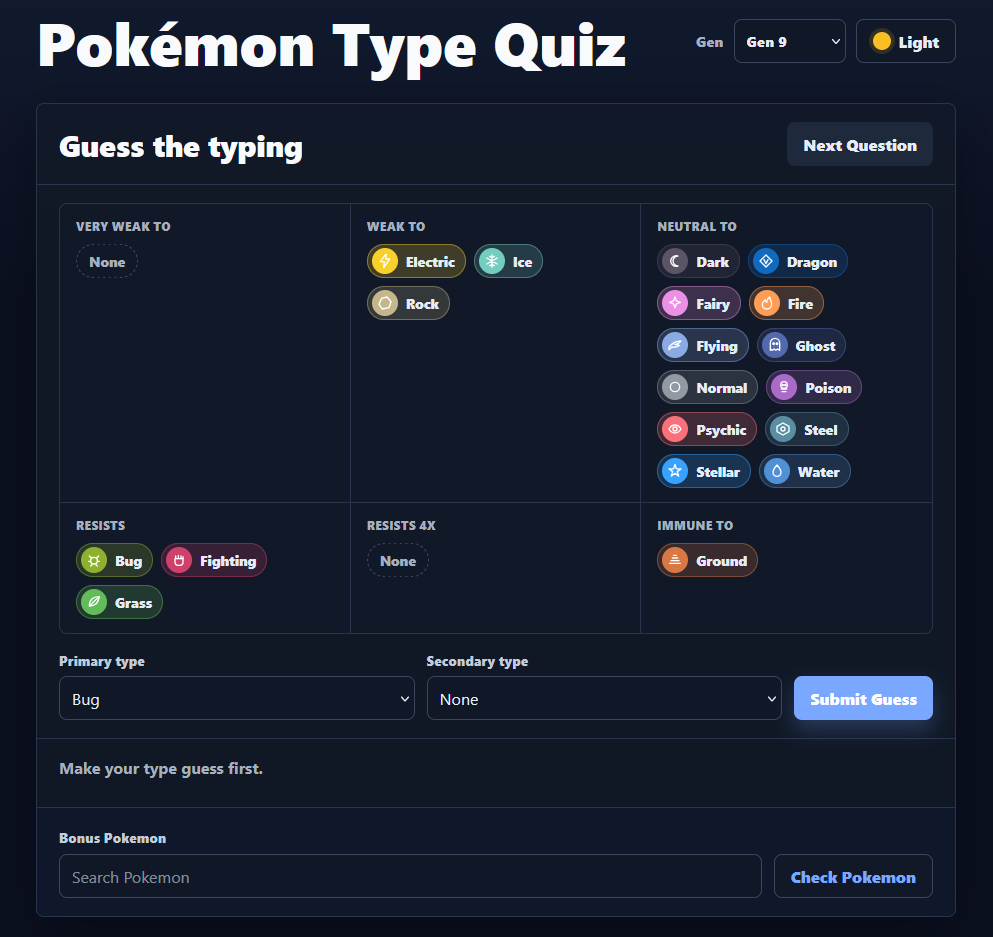
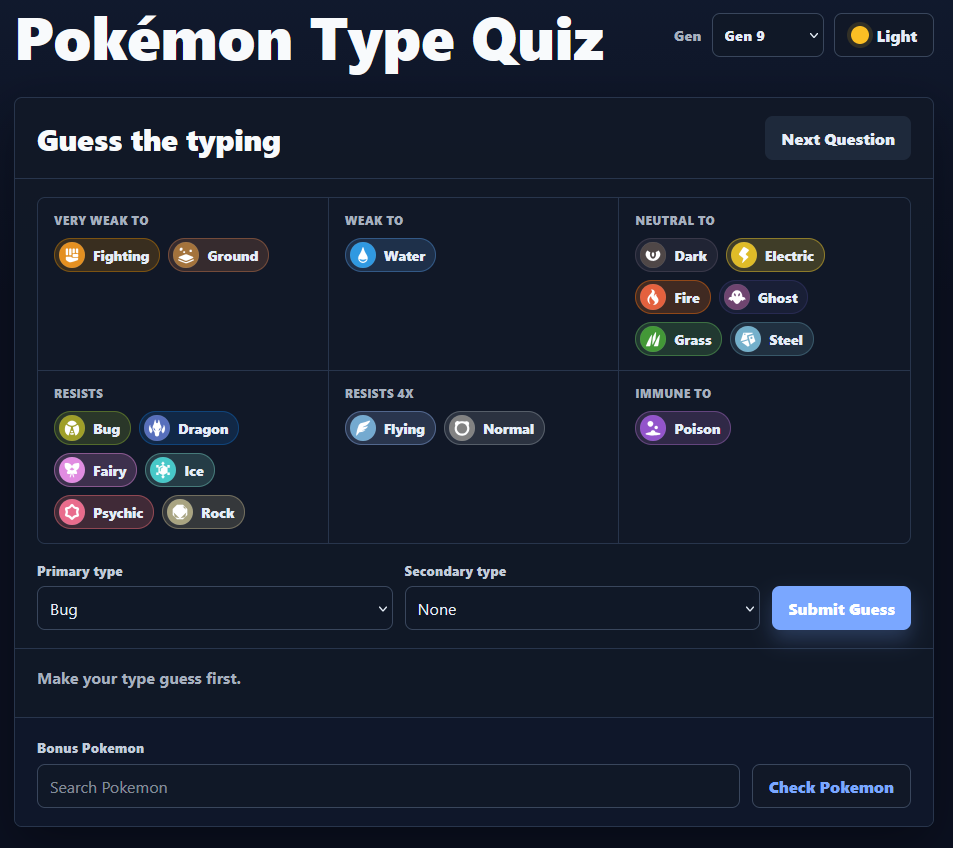
Real Typing SVGs

diff --git a/src/main.ts b/src/main.ts
@@ -19,42 +19,40 @@ const TYPE_COLORS: Record<string, string> = {
   Dragon: '#0f6ac0',
   Electric: '#f7d02c',
   Fairy: '#ec8fe6',
-  Fighting: '#ce416b',
-  Fire: '#ff9d55',
+  Fighting: '#d78500',
+  Fire: '#fc700d',
   Flying: '#89aae3',
-  Ghost: '#5269ad',
+  Ghost: '#393974',
   Grass: '#63bc5a',
-  Ground: '#d97845',
+  Ground: '#c9774b',
   Ice: '#73cec0',
   Normal: '#919aa2',
   Poison: '#aa6bc8',
   Psychic: '#fa7179',
   Rock: '#c5b78c',
   Steel: '#5a8ea2',
-  Stellar: '#37a3ff',
   Water: '#5090d6',
 };
 
 const TYPE_ICONS: Record<string, string> = {
-  Bug: '<svg viewBox="0 0 24 24"><circle cx="12" cy="13" r="5"/><path d="M8 9 5 6M16 9l3-3M7 14H4M17 14h3M9 19l-2 2M15 19l2 2"/></svg>',
-  Dark: '<svg viewBox="0 0 24 24"><path d="M16.5 4.5a8 8 0 1 0 0 15 6.2 6.2 0 0 1 0-15Z"/></svg>',
-  Dragon: '<svg viewBox="0 0 24 24"><path d="M12 3 21 12 12 21 3 12 12 3Z"/><path d="m9 10 3 6 3-6"/></svg>',
-  Electric: '<svg viewBox="0 0 24 24"><path d="M13 2 5 13h6l-1 9 9-13h-6l1-7Z"/></svg>',
-  Fairy: '<svg viewBox="0 0 24 24"><path d="m12 3 2.2 5.8L20 11l-5.8 2.2L12 19l-2.2-5.8L4 11l5.8-2.2L12 3Z"/></svg>',
-  Fighting: '<svg viewBox="0 0 24 24"><path d="M6 10h12v5a5 5 0 0 1-5 5h-2a5 5 0 0 1-5-5v-5Z"/><path d="M7 10V6M11 10V5M15 10V6M18 10V7"/></svg>',
-  Fire: '<svg viewBox="0 0 24 24"><path d="M12 21c-4 0-7-2.8-7-6.6 0-3.2 2.1-5.3 4.1-7.2.4 2 1.3 3.1 2.6 3.8-.2-3.4 1.5-5.9 4.4-8 0 4.1 2.9 6 2.9 10.6 0 4.3-3.1 7.4-7 7.4Z"/></svg>',
-  Flying: '<svg viewBox="0 0 24 24"><path d="M3 15c7-8 13-9 18-9-2 2.5-5.2 4.4-9 5.5 3-.1 5.2.3 6.8 1.2-3 2-7 2.9-12 2.7L3 19v-4Z"/></svg>',
-  Ghost: '<svg viewBox="0 0 24 24"><path d="M5 20V9a7 7 0 0 1 14 0v11l-3-2-2.7 2-2.6-2L8 20l-3-2Z"/><circle cx="10" cy="10" r="1.2"/><circle cx="15" cy="10" r="1.2"/></svg>',
-  Grass: '<svg viewBox="0 0 24 24"><path d="M20 4C10 4 5 9 5 18c9 0 14-5 15-14Z"/><path d="M6 18c3-5 7-8 12-12"/></svg>',
-  Ground: '<svg viewBox="0 0 24 24"><path d="M4 17h16M6 13h12M8 9h8M10 5h4"/></svg>',
-  Ice: '<svg viewBox="0 0 24 24"><path d="M12 3v18M4.2 7.5l15.6 9M19.8 7.5l-15.6 9M8.5 5.1 12 7l3.5-1.9M8.5 18.9 12 17l3.5 1.9"/></svg>',
-  Normal: '<svg viewBox="0 0 24 24"><circle cx="12" cy="12" r="7"/></svg>',
-  Poison: '<svg viewBox="0 0 24 24"><circle cx="12" cy="9" r="5"/><path d="M8 15h8M9 19h6"/><circle cx="10" cy="9" r="1"/><circle cx="14" cy="9" r="1"/></svg>',
-  Psychic: '<svg viewBox="0 0 24 24"><path d="M3 12s3.5-6 9-6 9 6 9 6-3.5 6-9 6-9-6-9-6Z"/><circle cx="12" cy="12" r="3"/></svg>',
-  Rock: '<svg viewBox="0 0 24 24"><path d="m7 5 8-2 6 7-3 9-10 2-5-7 4-9Z"/></svg>',
-  Steel: '<svg viewBox="0 0 24 24"><path d="M12 3 21 8v8l-9 5-9-5V8l9-5Z"/><circle cx="12" cy="12" r="3"/></svg>',
-  Stellar: '<svg viewBox="0 0 24 24"><path d="m12 2 2.1 6.8H21l-5.6 4.1 2.2 6.8-5.6-4.2-5.6 4.2 2.2-6.8L3 8.8h6.9L12 2Z"/></svg>',
-  Water: '<svg viewBox="0 0 24 24"><path d="M12 3c4 4.5 6 7.8 6 11a6 6 0 0 1-12 0c0-3.2 2-6.5 6-11Z"/></svg>',
+  Bug: '<svg id="Layer_1" data-name="Layer 1" xmlns="http://www.w3.org/2000/svg" viewBox="0 0 256 256"><defs><style>.cls-11{fill:#fff;}.cls-21{fill:#9f9f28;}</style></defs><circle class="cls-21" cx="128" cy="128" r="128"/><path class="cls-11" d="M57.84,144.71c-.01-17.4,1.6-28.85,6.39-39.68,3.81-8.63,8.14-10.12,15.18-4.54,9.56,7.57,20.13,12.71,32,15.35,6.4,1.43,8.85,5.18,6.73,11.74-7.23,22.39-14.49,44.78-21.4,67.27-2.38,7.73-5.96,7.47-11.48,3.27-19.56-14.89-27.26-35.22-27.42-53.41Z"/><path class="cls-11" d="M198.18,140.28c-.2,22.43-7.79,41.62-25.21,56.25-8.51,7.14-11.15,6.33-14.39-3.8-6.75-21.15-13.17-42.41-20.18-63.48-2.61-7.83-.79-11.92,7.38-13.71,11.17-2.45,21.18-7.45,30.21-14.58,7.71-6.09,11.86-4.82,15.86,4.29,4.91,11.17,6.33,22.98,6.33,35.02Z"/><path class="cls-11" d="M127.91,105.03c-15.42,.42-28.7-4.76-40.56-14.1-6.17-4.85-7.07-9.34-1.07-15.53,23.76-24.54,59.04-24.66,83.13-.34,6.45,6.51,5.42,11.16-1.15,16.22-11.96,9.2-25.27,14.31-40.34,13.75Z"/><path class="cls-11" d="M128.4,179.08c4.03-.22,7.65-.37,11.27-.64,4.75-.35,6.18,2.6,7.01,6.54,.84,3.97-.53,6.29-4.39,7.43-9.41,2.78-18.79,2.72-28.22,.13-4.4-1.21-5.59-3.84-4.63-8.17,.94-4.23,3.05-6.32,7.53-5.92,3.94,.35,7.89,.44,11.44,.63Z"/><path class="cls-11" d="M127.89,170.73c-4.86-.9-12.01,1.45-11.66-7,.31-7.45,5.28-9.23,12.43-9.21,7.21,.02,11.05,3,11.1,9.52,.07,8.37-7.16,5.71-11.86,6.69Z"/></svg>',
+  Dark: '<svg id="Layer_2" data-name="Layer 2" xmlns="http://www.w3.org/2000/svg" viewBox="0 0 256 256"><defs><style>.cls-12{fill:#fff;}.cls-22{fill:#4f4747;}</style></defs><circle class="cls-22" cx="128" cy="128" r="128"/><path class="cls-12" d="M74.46,84.24c7.49,7.56,17.75,14.95,27.04,16.93-1.38,2.84-1.88,5.07-2.37,8.23-2.78,17.82-1.19,34.63,12.15,48.3,10.06,10.31,23.45,10.28,33.51-.09,13.29-13.71,14.91-30.51,12.01-48.33-.43-2.62-1.93-9.15-1.88-9.24,.1-.18,0-.08,1-.38,6.48-1.51,18.62-7.99,26.05-15.5,15.36,11.88,23.65,36.91,14.18,56.85-12.94,27.24-43.16,51.76-81.43,43.96-29.15-5.94-49.04-24.49-57.95-53.21-4.14-13.33,1.67-35.98,17.7-47.52Z"/><path class="cls-12" d="M139.92,124.38c-.27,5.3-.79,12.61-6.05,18.45-4.12,4.57-7.96,4.83-11.66-.03-7.43-9.75-7.46-20.89-4.48-32.19,1.96-7.42,2.86-7.9,10.26-7.9,7.41,0,7.97,.58,10.38,7.85,1.28,3.88,1.58,7.78,1.56,13.83Z"/></svg>',
+  Dragon: '<svg id="Layer_3" data-name="Layer 3" xmlns="http://www.w3.org/2000/svg" viewBox="0 0 256 256"><defs><style>.cls-13{fill:#fff;}.cls-23{fill:#576fbc;}</style></defs><circle class="cls-23" cx="128" cy="128" r="128"/><path class="cls-13" d="M170.93,124.41c.8,15.21-5.05,28.07-14.96,38.95-4.86,5.34-7.13,10.82-7.01,17.85,.07,4.3-.64,8.63-1.21,12.91-1.48,11.17-7.97,16.55-19.79,16.53-11.81-.02-18.2-5.38-19.75-16.59-.18-1.32-.43-2.65-.42-3.97,.07-12.31-3.37-22.68-11.93-32.43-14.25-16.22-14.56-45.3-2.66-60.49,5.82-7.42,4.65-17.14,7.55-25.58,2.37-6.9,4.02-14.05,6.07-21.06,.48-1.65,1.51-3.06,3.48-3,2.02,.06,2.71,1.6,3.11,3.3,1.8,7.77,4.05,15.47,5.23,23.33,.95,6.31,4.94,5.95,9.39,5.97,4.5,.02,8.42,.25,9.35-6.03,1.11-7.53,3.32-14.9,5.03-22.34,.45-1.96,.74-4.19,3.34-4.19,2.43,0,3.15,1.99,3.71,4,1.88,6.72,3.88,13.4,5.7,20.14,3.01,11.13,4.22,22.74,11.59,32.51,4.31,5.71,3.98,13.22,4.18,20.21Z"/><path class="cls-13" d="M194.2,95.93c16.78,17.37,18.87,64.53-8.22,85.49-5.83-6.35-8.44-14.77-13.52-21.58-.65-.87-.74-2.88-.18-3.82,5.41-9,4.95-20.46,12.96-28.54,7.84-7.92,9.39-18.61,8.97-31.55Z"/><path class="cls-23" d="M141.47,153.95c6.61-10.7,12.32-19.93,18.62-30.12,5.76,18.39-.34,28.8-18.62,30.12Z"/><path class="cls-13" d="M61.68,95.93c-16.78,17.37-18.87,64.53,8.22,85.49,5.83-6.35,8.44-14.77,13.52-21.58,.65-.87,.74-2.88,.18-3.82-5.41-9-4.95-20.46-12.96-28.54-7.84-7.92-9.39-18.61-8.97-31.55Z"/><path class="cls-23" d="M115.46,153.95c-6.61-10.7-12.32-19.93-18.62-30.12-5.76,18.39,.34,28.8,18.62,30.12Z"/></svg>',
+  Electric: '<svg id="Layer_4" data-name="Layer 4" xmlns="http://www.w3.org/2000/svg" viewBox="0 0 256 256"><defs><style>.cls-14{fill:#fff;}.cls-24{fill:#dfbc28;}</style></defs><circle class="cls-24" cx="128" cy="128" r="128"/><path class="cls-14" d="M112.94,205.87c-4.35-1.07-3.09-4.21-2.41-6.43,3.08-10.15,6.21-20.3,9.82-30.28,2.33-6.45,1.96-10.95-4.46-15.2-10.8-7.15-20.8-15.48-31.36-23-6.61-4.71-7.92-10.03-3.8-17.02,11.64-19.74,23.22-39.49,36.68-58.1,5.15-7.12,10.27-8.11,17.65-3.53,11.82,7.34,23.91,14.25,36.04,21.07,7.09,3.99,7.59,8.15,2.06,14.06-8.19,8.74-15.62,18.2-24.02,26.73-5.23,5.31-4.13,8.76,.94,12.93,6.41,5.28,12.52,10.94,18.74,16.46,3.68,3.27,4.04,6.56,.24,10.13-17.7,16.64-35.35,33.33-53.04,49.98-.94,.89-2.12,1.53-3.08,2.21Z"/></svg>',
+  Fairy: '<svg id="Layer_5" data-name="Layer 5" xmlns="http://www.w3.org/2000/svg" viewBox="0 0 256 256"><defs><style>.cls-15{fill:#fff;}.cls-25{fill:#e18ce1;}.cls-35{fill:#e291e2;}</style></defs><circle class="cls-25" cx="128" cy="128" r="128"/><path class="cls-15" d="M168.54,132.61c3.77,6.74,7.72,12.55,9.17,19.5,2.22,10.62-1.21,14.8-11.95,15.74-7.15,.63-10.23,.58-23.99-6.3-.72,12.68,10.42,26.54,7.56,40.13-.3,1.42-2.11,1.88-3.1,.81-10.72-11.57-11.42-26.96-18.23-40.53-6.59,13.45-7.73,28.65-17.98,40.71-.94,1.1-2.77,.71-3.11-.7-3.31-13.62,7.93-26.82,7.68-39.39-4.82,3.96-16,5.77-22.74,5.34-12.59-.8-15.97-5-13.2-17.17,1.5-6.62,5.97-11.71,8.57-18.3-7.97-5.14-16.04-9.4-21.66-17.39-10.4-14.76-10.88-31.08-9.17-47.77,.67-6.56,6.56-8.82,12.68-9,22.43-.65,42.31,4.56,55.63,24.61q.69,1.04,3.11,5.35,2.46-3.75,3.18-4.86c13.12-20.16,32.89-25.76,55.37-25.1,9.84,.29,13.27,4.35,13.86,14.36,.99,16.72-1.38,32.29-12.39,45.93-5.05,6.25-12.22,8.98-19.28,14.02Z"/><path class="cls-35" d="M128.01,97.38c3.43,10.49,11.99,18.83,23.75,18.89-4.1,10.72-12.19,14.1-21.2,14.91-10.89,.98-20.09-2.8-26.74-14.02,11.02-1.56,20.04-8.95,24.18-19.79Z"/></svg>',
+  Fighting: '<svg id="Layer_6" data-name="Layer 6" xmlns="http://www.w3.org/2000/svg" viewBox="0 0 256 256"><defs><style>.cls-16{fill:#fff;}.cls-26{fill:#e49021;}</style></defs><circle class="cls-26" cx="128" cy="128" r="128"/><path class="cls-16" d="M187.37,155.46c.55,.18,.95,.71,1.01,1.29,1.74,16.71-.12,19.56-15.05,25.28-18.32,7.01-37.09,12.47-56.28,16.61-6.49,1.4-12.82,1.23-18.55-1.56-9.55-4.66-18.43-10.58-26.79-17.18-2.9-2.29-4.35-5.25-4.45-8.92-.16-5.96,.32-11.94,0-17.9-.29-5.3,1.7-8.26,7.01-8.25,13.98,.02,27.96,0,41.94,.07,2.73,.01,5.69,.39,6.17,3.76,.85,6.07,5.16,6,9.64,6,14.98-.02,29.96-.02,44.94,.04,3.34,.01,6.74-.4,10.4,.77Z"/><path class="cls-16" d="M66.79,97c0-7.65-.17-15.31,.05-22.96,.23-8.25,1.29-9.16,9.29-9.49,12.35-.52,13.55,.62,13.57,13.24,.03,14.31,.11,28.62-.05,42.92-.1,8.6-2.14,10.41-10.71,10.59-9.27,.18-11.82-1.83-12.08-10.34-.24-7.98-.05-15.97-.05-23.96,0,0-.01,0-.02,0Z"/><path class="cls-16" d="M162.9,146.55c-6.65,0-13.31-.04-19.96,.01-6.12,.05-9.28-2.95-9.44-9.04-.09-3.32-.23-6.66,0-9.97,.36-5.39,3.15-8.73,8.81-8.76,13.64-.08,27.28,.01,40.91-.04,4.22-.02,5.58,2.08,6.03,6.1,2.32,20.72,1.48,21.77-19.36,21.77-2.33,0-4.66,0-6.99,0,0-.02,0-.05,0-.07Z"/><path class="cls-16" d="M122.79,98.15c0,7.98,.25,15.96-.07,23.93-.3,7.37-2.74,9.14-11.13,9.21-8.7,.07-11.35-1.5-11.5-8.78-.36-16.61-.09-33.23-.15-49.85-.02-5.98,3.01-8.41,8.72-8.11,1.33,.07,2.66-.04,3.99,0,8.85,.21,9.91,1.08,10.13,9.67,.2,7.97,.04,15.95,.04,23.93,0,0-.02,0-.03,0Z"/><path class="cls-16" d="M189.2,87.77c0,5.64,0,11.27,0,16.91,0,4.05-1.9,6.18-6.11,5.93-.66-.04-1.33,0-1.99,.03q-14.85,.61-14.86-14.08c0-7.3-.1-14.6,.04-21.89,.17-9.07,1.26-10.04,10.57-10.2,1.66-.03,3.32,.07,4.97,.05,4.94-.05,7.33,2.49,7.37,7.32,.04,5.31,0,10.61,0,15.92Z"/><path class="cls-16" d="M156.1,88.09c0,5.33-.1,10.66,.03,15.99,.12,4.68-2.05,6.48-6.64,6.51-19.31,.12-16.06,.62-16.34-14.77-.14-7.66,.11-15.33,.03-22.99-.06-5.9,2.76-8.56,8.59-8.29,2.33,.11,4.66,.06,6.99,.05,5.03-.01,7.23,2.72,7.26,7.5,.03,5.33,0,10.66,0,15.99h.06Z"/></svg>',
+  Fire: '<svg id="Layer_7" data-name="Layer 7" xmlns="http://www.w3.org/2000/svg" viewBox="0 0 256 256"><defs><style>.cls-17{fill:#fff;}.cls-27{fill:#e4613e;}</style></defs><circle class="cls-27" cx="128" cy="128" r="128"/><path class="cls-17" d="M101.14,196.71c-18.04-4.97-32.15-33.23-26.12-56.44,2.47-9.5,6.73-18.04,13.15-25.42,5.67-6.52,11.56-12.86,17.44-19.19,16.45-17.72,16.84-21.84,3.67-40.92,16.66-6.33,35.79,6.81,36.26,24.87,.23,8.92-3.12,16.84-6.55,24.78-2.86,6.61-3.94,13.22,1.46,21.46,.78-7.78,.25-13.98,5.16-19.12,5.44-5.7,9.99-7.61,18.26-5.74-8,6.58-6.97,10.9,6.52,29.92,12.34,17.41,15.7,32.35,6.6,48.54-9.75,17.35-30.86,27.88-50.31,24.97,1.32-2.15,5-3.89,7.7-5.48,12.95-7.61,14.91-19.54,4.94-30.71-3.31-3.71-7.06-7.04-10.68-10.47-14.71-13.95-16.33-16.83-20.12-36.25-20.01,10.96-23.87,46.75-7.38,75.23Z"/></svg>',
+  Flying: '<svg id="Layer_8" data-name="Layer 8" xmlns="http://www.w3.org/2000/svg" viewBox="0 0 256 256"><defs><style>.cls-18{fill:#fff;}.cls-28{fill:#74aad0;}</style></defs><circle class="cls-28" cx="128" cy="128" r="128"/><path class="cls-18" d="M151.78,148.43c-15.72,18.66-36.72,18.54-56.82,20.49-.88,.09-1.72,.46-2.36,1.09-10.27,10.09-15.84,24.13-28,33.64-.55,.43-1.39,.2-1.63-.45-2.25-6.09-1.57-11.4-.81-16.39,4.26-28.02,11.13-55.4,21.88-81.66,5.83-14.23,15.13-24.51,31.59-27.2,24.36-3.98,47.33-13.03,70.58-20.97,2.96-1.01,6.05-1.96,9.13-.76,.97,.38,1.74,1.18,2.02,2.18,.91,3.25-.92,5.89-2.54,8.68-13.5,23.36-34.25,37.51-58.92,46.81-3.54,1.33-7.9,2.81-10.91,5.61-.32,.3-.08,.86,.35,.88,17.48,.74,32.76-5.7,48.82-9.24,.55-.12,1.04,.45,.84,.98-7.05,17.94-23.79,26.99-39.9,32.15-6.3,2.02-9.35,2.46-20.33,3.46-.37,.03-.41,.49-.11,.57,15.87,4,21.78-.55,36.34-1.55,.83-.06,1.3,1.02,.77,1.66Z"/></svg>',
+  Ghost: '<svg id="Layer_9" data-name="Layer 9" xmlns="http://www.w3.org/2000/svg" viewBox="0 0 256 256"><defs><style>.cls-19{fill:#fff;}.cls-29{fill:#6f4570;}.cls-39{fill:#785279;}</style></defs><circle class="cls-29" cx="128" cy="128" r="128"/><path class="cls-19" d="M181.32,129.18c17.5-2.25,26.94,4.31,29.63,19.92,.35,2.02,.89,4.09-.95,5.51-1.82,1.4-3.97,.9-5.49-.53-3.43-3.21-6.15-2.85-9.23,.65-11.43,13.03-11.49,12.97-25.61,3.67-7.23,9.3-13.4,19.53-22.16,27.76-15.24,14.32-23.93,14.36-39.14-.12-8.5-8.1-14.85-17.81-21.86-27.6-1.34,.61-2.63,.92-3.57,1.67-11.08,8.95-12.51,8.86-20.73-3.02-3.01-4.34-5.61-7.7-10.89-2.9-1.55,1.41-3.7,1.79-5.46,.27-1.77-1.53-1.11-3.56-.73-5.56,2.91-15.53,11.6-21.56,29.88-19.95-1.56-21.61,3.65-40.79,21.04-55.13,10.2-8.4,21.88-12.33,35.08-11.62,30.09,1.6,48.84,26.36,50.2,66.98Z"/><path class="cls-39" d="M97.2,100.05c-.05-3.76,.1-7.72,4.2-9.25,4.1-1.54,6.94,1.39,9.36,4.16,5.03,5.76,7.53,12.61,6.59,20.2-.85,6.86-5.98,8.61-11.33,4.15-5.97-4.98-8.66-11.56-8.82-19.25Z"/><path class="cls-39" d="M158.77,100.6c-.26,7.31-2.96,13.47-8.42,18.46-2.1,1.92-4.32,3.3-7.12,2.5-3.33-.96-4.53-3.86-4.71-6.94-.42-7.24,1.69-13.82,6.43-19.33,2.59-3.02,5.62-6.37,10.14-4.27,3.89,1.81,3.8,5.86,3.69,9.59Z"/></svg>',
+  Grass: '<svg id="Layer_10" data-name="Layer 10" xmlns="http://www.w3.org/2000/svg" viewBox="0 0 256 256"><defs><style>.cls-110{fill:#fff;}.cls-210{fill:#439837;}</style></defs><circle class="cls-210" cx="128" cy="128" r="128"/><path class="cls-110" d="M194.3,86.12c2.2-2.13,1.76,4.2,1.52,6.15-4.07,32.61-8.97,65.08-16.15,97.16-1.92,8.61-3.33,9.71-12.1,9.84-9.68,.14-19.35,.06-28.95,.04-1.7,0-2.85-1.73-2.2-3.3,15.94-38.11,37.34-90.03,57.88-109.89Z"/><path class="cls-110" d="M121.47,180.64c-.83-23.74,2.05-37.16,5.01-68.66,.12-1.32,.59-2.57,1.15-3.77,3.53-7.48,17.34-36.24,25.36-46.17,1.68-2.08,5.01-.95,5.18,1.71,.11,1.78,.04,3.44-.03,5.22-.89,20.31-3.29,40.49-6.19,60.6-.56,3.86-2.22,7.68-3.97,11.23-5.73,11.62,1.08-2.28-17.76,34.57-1.19,2.34-2.12,5.3-4.33,6.98-1.8,1.37-4.34,.55-4.42-1.7Z"/><path class="cls-110" d="M116.82,86.12c2.2-2.13,1.76,4.2,1.52,6.15-4.07,32.61-8.97,65.08-16.15,97.16-1.92,8.61-3.33,9.71-12.1,9.84-9.68,.14-19.35,.06-28.95,.04-1.7,0-2.85-1.73-2.2-3.3,15.94-38.11,37.34-90.03,57.88-109.89Z"/></svg>',
+  Ground: '<svg id="Layer_11" data-name="Layer 11" xmlns="http://www.w3.org/2000/svg" viewBox="0 0 256 256"><defs><style>.cls-111{fill:#fff;}.cls-211{fill:#a4733c;}</style></defs><circle class="cls-211" cx="128" cy="128" r="128"/><path class="cls-111" d="M126.23,184.84c-2.52-.77-6.4-1.66-10.06-3.12-16.93-6.77-33.8-13.68-50.68-20.59-1.52-.62-2.94-1.54-4.37-2.37-7.42-4.3-7.7-9.21-.2-12.86,20.58-10.01,41.94-18.12,63.61-25.43,2.66-.9,5.15-.6,7.77,.29,21.03,7.14,41.73,15.08,61.78,24.65,.9,.43,1.91,.68,2.71,1.23,4.81,3.35,4.98,8.12-.08,11.12-4.54,2.69-9.52,4.66-14.4,6.73-16.16,6.86-32.34,13.7-49,19.3-1.91,.64-3.72,1.37-7.09,1.04Z"/><path class="cls-111" d="M127.56,209.93c-4.2,0-16.12-4.16-23.83-7.01-14.62-5.41-29.03-11.48-43.23-17.96-.67-.3-3.56-1.99-5.19-2.94-5.04-2.9-5.41-3.74-2.57-9.25,1.9-3.68,2.7-3.31,7.75-.99,16.01,7.32,32.38,13.67,48.71,20.15s21.09,6.87,37.52,.04c15.91-6.61,31.68-13.54,47.8-19.73,4.87-1.87,6.88-3.86,9.14,1.33,1.81,4.15,3.83,5.53-3.76,8.84-16.74,7.31-33.07,15.45-50.36,21.36-7.2,2.46-17.23,6.15-21.98,6.15Z"/><path class="cls-111" d="M93.59,71.19q0,14.24-14.1,14.23c-1.33,0-2.65,.02-3.98-.02-8.78-.28-9.26-.78-9.52-9.97q-.51-18.04,17.68-17.63c9.44,.22,9.76,.54,9.92,10.4,.02,.99,0,1.99,0,2.98Z"/><path class="cls-111" d="M185.3,87.72c-.14,10.17-.34,10.34-11.99,10.25-10-.08-10.24-.37-10.14-12.06,.09-10.18,.35-10.41,11.95-10.24,10.14,.15,10.34,.38,10.18,12.05Z"/><path class="cls-111" d="M119.38,99.54c.04,8.09-1.04,9.17-9.13,9.18-8.19,0-9.46-1.21-9.42-8.99,.04-7.6,.99-8.41,9.78-8.36,8.16,.05,8.74,.59,8.78,8.16Z"/></svg>',
+  Ice: '<svg id="Layer_12" data-name="Layer 12" xmlns="http://www.w3.org/2000/svg" viewBox="0 0 256 256"><defs><style>.cls-112{fill:#47c8c8;}.cls-212{fill:#fbfdfd;}.cls-312{fill:#64cfcf;}</style></defs><circle class="cls-112" cx="128" cy="128" r="128"/><path class="cls-212" d="M110.36,60.61c6.05-5.88,11.4-11.09,17.77-17.29,5.97,6.13,11.17,11.47,17.14,17.59-4.92,5.79-9.31,10.96-14.74,17.36,12.8,7.44,26.4,16.32,40.07,24.27v-23.26h24.01c0,7.81,.09,16.68,.09,25.33-21.7,0-5.65,.26-22.24,.26,0,15.36,.44,31.53,.44,47.51h21.79v24.18h-23.94v-21.88c-13.22,7.56-27.06,15.34-40.38,22.95,5.13,5.9,9.4,10.79,14.9,17.11-5.37,5.66-10.66,11.23-17.36,18.29-5.96-6.39-11.21-12.02-17.12-18.36,4.98-5.7,9.44-10.8,14.84-16.97-13.25-7.61-27-15.35-40.37-23.03v22.22h-24.05v-24.46h22.03c0-15.56-.08-32.89-.08-48.86l-22.05-.08v-24.22h24.22c0,21.72,0,2.88,0,21.24,13.09-7.41,26.69-14.32,40.16-21.95-5.03-5.96-9.38-11.12-15.15-17.95Z"/><path class="cls-312" d="M96.46,140.79v-32.06c12.55-7.16,12.55-6.81,27.27-15.03l6.03,7.93c-22.64,12.82,.71-.29-22.64,12.82v26.34h-10.66Z"/></svg>',
+  Normal: '<svg id="Layer_13" data-name="Layer 13" xmlns="http://www.w3.org/2000/svg" viewBox="0 0 256 256"><defs><style>.cls-113{fill:#fff;}.cls-213{fill:#828282;}</style></defs><circle class="cls-213" cx="128" cy="128" r="128"/><path class="cls-113" d="M129.76,204.09c-52.17,.13-86.62-49.01-69.05-96.43,1.58-4.26,2.06-8.18,.3-12.54-4.35-10.76-2.11-20.35,6.4-28.13,8.6-7.86,18.65-8.56,28.73-3.56,4.11,2.04,7.65,1.76,11.48,.67,13.45-3.84,26.89-3.86,40.31-.09,5.01,1.41,9.29,.9,14.31-1.24,9.79-4.16,19.59-3.35,27.74,4.64,8.34,8.17,9.92,17.82,5.48,28.33-1.7,4.02-1.86,7.6-.29,11.52,13.45,33.52-1.47,71.64-33.35,88.74-10.47,5.62-21.72,8.21-32.05,8.08Z"/><path class="cls-213" d="M77.28,133.16c-1.34-26.26,21.93-51.19,50.24-51.09,28.36,.09,50.55,22.02,51.35,50.13,.68,24.05-19.28,50.72-50.39,51.16-27.94,.4-51.07-22.27-51.2-50.2Z"/></svg>',
+  Poison: '<svg id="Layer_14" data-name="Layer 14" xmlns="http://www.w3.org/2000/svg" viewBox="0 0 256 256"><defs><style>.cls-114{fill:#fff;}.cls-214{fill:#9354cb;}</style></defs><circle class="cls-214" cx="128" cy="128" r="128"/><circle class="cls-114" cx="159.37" cy="123.2" r="16.8"/><circle class="cls-114" cx="102.45" cy="86.6" r="28.2"/><path class="cls-114" d="M197.45,191.55c2.36-1.5,3.12-3.08,3.28-4.91,.05-.38,.08-.77,.08-1.18,0-.27-.03-.52-.06-.76-.16-2.7-1.26-4.54-8.23-6.81-1.21-.39-2.54-.78-3.97-1.17-7.9-2.37-15.56-3.78-24.24-4.53-3.43-.44-6.99-.84-10.63-1.18-1.71-.52-2.31-1.28-2.72-2.44-.55-2.95-1.65-5.7-3.19-8.15-3.79-6.49-9.84-10.25-17.82-10.82-.49-.04-.98-.07-1.48-.08-.04,0-.08,0-.12,0-.03,0-.05,0-.08,0-.09,0-.18,0-.27,0-.27,0-.53,.01-.8,.02-9.24,.17-16.18,4.64-19.99,12.7-.62,1.22-1.15,2.49-1.55,3.82-.93,2.47-1.59,3.97-3.63,4.86-4.92,.42-9.65,.95-14.1,1.57-4.28,.46-8.51,1.21-12.7,2.17-5.5,1.14-10.17,2.43-13.73,3.8-.53,.19-1.04,.4-1.54,.63-4.26,1.9-4.63,3.67-4.66,5.88-.02,.26-.05,.52-.04,.8,0,.16,.03,.31,.04,.47,.06,2.53,.72,4.56,5.71,6.64,.94,.41,1.93,.76,2.94,1.08,1.65,.55,3.48,1.08,5.48,1.59,8.46,2.29,17.02,3.57,25.62,4.37,10.22,1.13,21.52,1.79,32.87,1.8,0,0,0,0,.01,0,0,0,0,0,0,0,.03,0,.06,0,.09,0,10.47,0,20.99-.59,30.65-1.59,10.15-.84,20.2-2.3,30.08-5.18,.46-.13,.91-.26,1.35-.39,.09-.03,.17-.05,.26-.08,2.29-.71,4.79-1.49,6.76-2.73,.08-.05,.16-.1,.25-.15,.02-.02,.05-.03,.07-.05Z"/></svg>',
+  Psychic: '<svg id="Layer_15" data-name="Layer 15" xmlns="http://www.w3.org/2000/svg" viewBox="0 0 256 256"><defs><style>.cls-115{fill:#fff;}.cls-215{fill:#e96c8c;}.cls-315{fill:#e96c8d;}</style></defs><circle class="cls-215" cx="128" cy="128" r="128"/><path class="cls-115" d="M197.45,99.74c.29,5.25-2.01,9.75-4.39,14.13-5,9.21-4.92,18.19-.37,27.66,10.23,21.3,3.62,33.41-19.59,35.57-11.16,1.04-19.22,5.65-25.41,15.11-11.71,17.9-27.71,17.77-39.56-.25-5.98-9.09-13.76-13.73-24.55-14.79-24.07-2.36-30.54-13.99-20.14-35.92,4.32-9.12,4.22-17.7-.14-26.79-10.21-21.31-3.62-33.41,19.59-35.57,11.15-1.04,19.23-5.65,25.41-15.11,11.49-17.58,27.83-17.94,38.95-.54,7.09,11.09,16.73,15.07,29.13,16.03,13.9,1.08,21.17,8.75,21.06,20.48Z"/><path class="cls-315" d="M174.57,154.66c-20.78,1.82-35.45,9.96-46.37,26.9-11.55-16.67-26-25.21-45.7-26.81,6.99-17.87,8.75-34.96-.85-53,19.9-2.33,34.97-10.36,46.4-26.96,11.3,16.3,25.74,24.84,45.44,26.44-6.94,17.88-8.77,34.96,1.08,53.42Z"/></svg>',
+  Rock: '<svg id="Layer_16" data-name="Layer 16" xmlns="http://www.w3.org/2000/svg" viewBox="0 0 256 256"><defs><style>.cls-116{fill:#fff;}.cls-216{fill:#a9a481;}</style></defs><circle class="cls-216" cx="128" cy="128" r="128"/><path class="cls-116" d="M199.67,98.23l-19.62-19.62,3.55,23.38c.03,.19-.2,.31-.34,.17l-29.18-29.18c-.14-.14-.02-.37,.17-.34l23.38,3.55-19.87-19.87s-.09-.06-.14-.06h-59.26c-.05,0-.1,.02-.14,.06l-41.9,41.9s-.06,.09-.06,.14v59.26c0,.05,.02,.1,.06,.14l19.53,19.53-9.71-45.05c-.04-.19,.2-.32,.34-.18l57.77,57.77c.14,.14,.01,.38-.18,.34l-45.05-9.71,19.21,19.21s.09,.06,.14,.06h59.26c.05,0,.1-.02,.14-.06l19.24-19.24-45.14,9.75c-.19,.04-.32-.2-.18-.34l57.76-57.76c.14-.14,.38-.01,.34,.18l-9.75,45.14,19.64-19.64s.06-.09,.06-.14v-59.26c0-.05-.02-.1-.06-.14Z"/></svg>',
+  Steel: '<svg id="Layer_17" data-name="Layer 17" xmlns="http://www.w3.org/2000/svg" viewBox="0 0 256 256"><defs><style>.cls-117{fill:#fff;}.cls-217{fill:#77b2cb;}.cls-317{fill:#74b0cb;}</style></defs><circle class="cls-317" cx="128" cy="128" r="128"/><path class="cls-117" d="M117.24,93.22c2.6,13.41,4.78,24.66,7.26,37.43-22.73,6.49-44.68,12.75-69.68,19.88,9.84-30.35,18.66-57.52,27.59-85.05h89.4c.95,2.01,2.13,4.49,3.84,8.09-19.64,6.61-38.27,12.88-58.41,19.65Z"/><path class="cls-117" d="M200.8,150.53c-14.91,10.77-28.49,20.58-44.8,32.36-7.75-27.52-14.82-52.63-22.38-79.5,16.5-5.26,30.78-9.82,46.8-14.93,6.96,21.21,13.5,41.12,20.38,62.07Z"/><path class="cls-117" d="M143.47,191.59c-5.22,3.98-10.06,7.68-15.77,12.03-19.71-14.37-38.84-28.32-61.19-44.61,22.17-6.41,40.89-11.82,61.12-17.66,5.46,17.32,10.48,33.22,15.85,50.24Z"/><circle class="cls-217" cx="97.05" cy="80.81" r="7.64"/><circle class="cls-217" cx="161.67" cy="116.95" r="10.41"/></svg>',
+  Water: '<svg id="Layer_18" data-name="Layer 18" xmlns="http://www.w3.org/2000/svg" viewBox="0 0 256 256"><defs><style>.cls-118{fill:#3a9de2;}.cls-218{fill:#fff;}.cls-318{fill:#3099e1;}</style></defs><circle class="cls-318" cx="128" cy="128" r="128"/><path class="cls-218" d="M128.35,206.24c-34.24,.13-56.14-32.39-43.8-64.78,4.18-10.98,10.78-20.6,16.8-30.49,9.43-15.5,15.71-32.11,19.91-49.63,.54-2.25,.94-4.58,1.88-6.66,.93-2.07,2.13-4.29,5.02-4.17,2.83,.12,3.84,2.41,4.87,4.44,.74,1.45,1.09,3.12,1.41,4.73,4.46,22.12,13.91,42.06,26.04,60.93,7.77,12.08,14.46,24.58,14.13,39.75-.57,26.48-19.82,45.79-46.27,45.89Z"/><path class="cls-118" d="M129.16,193.51c-13.8-1.05-25.57-4.53-32.92-16.53-1.35-2.2-3.13-5.02-1.71-7.44,1.88-3.21,4.73-.71,7.03,.08,17.88,6.19,35.7,6.17,53.52-.27,2.06-.75,4.33-2.73,6.36-.43,1.92,2.18,.05,4.41-.92,6.39-6.52,13.39-18.86,16.49-31.35,18.19Z"/></svg>',
 };
 
 const generationSelect = document.querySelector<HTMLSelectElement>('#generation')!;
@@ -125,6 +123,7 @@ function refreshPools() {
   const buckets = new Map<string, PokemonOption[]>();
   for (const pokemon of pokemonPool) {
     const key = canonicalTyping(pokemon.types);
+    if (key.includes('stellar')) continue; // Exclude Stellar type for guessing
     buckets.set(key, [...(buckets.get(key) ?? []), pokemon]);
   }
 
@@ -183,7 +182,7 @@ function typeBadge(type: string) {
 
 function badgeList(values: string[]) {
   if (!values.length) return '<span class="type-empty">None</span>';
-  return values.map(typeBadge).join('');
+  return values.filter(t => t !== "Stellar").map(typeBadge).join('');
 }
 
 function renderMatchupGroup(key: keyof MatchupProfile, label: string, values: string[]) {

diff --git a/src/styles.css b/src/styles.css
@@ -299,19 +299,13 @@ input:focus {
   height: 26px;
   flex: 0 0 auto;
   place-items: center;
-  border-radius: 50%;
-  background: var(--type-color);
-  color: #ffffff;
 }
 
 .type-icon svg {
-  width: 16px;
-  height: 16px;
+  width: 26px;
+  height: 26px;
   fill: none;
   stroke: currentColor;
-  stroke-linecap: round;
-  stroke-linejoin: round;
-  stroke-width: 2;
 }
 
 .type-name {
